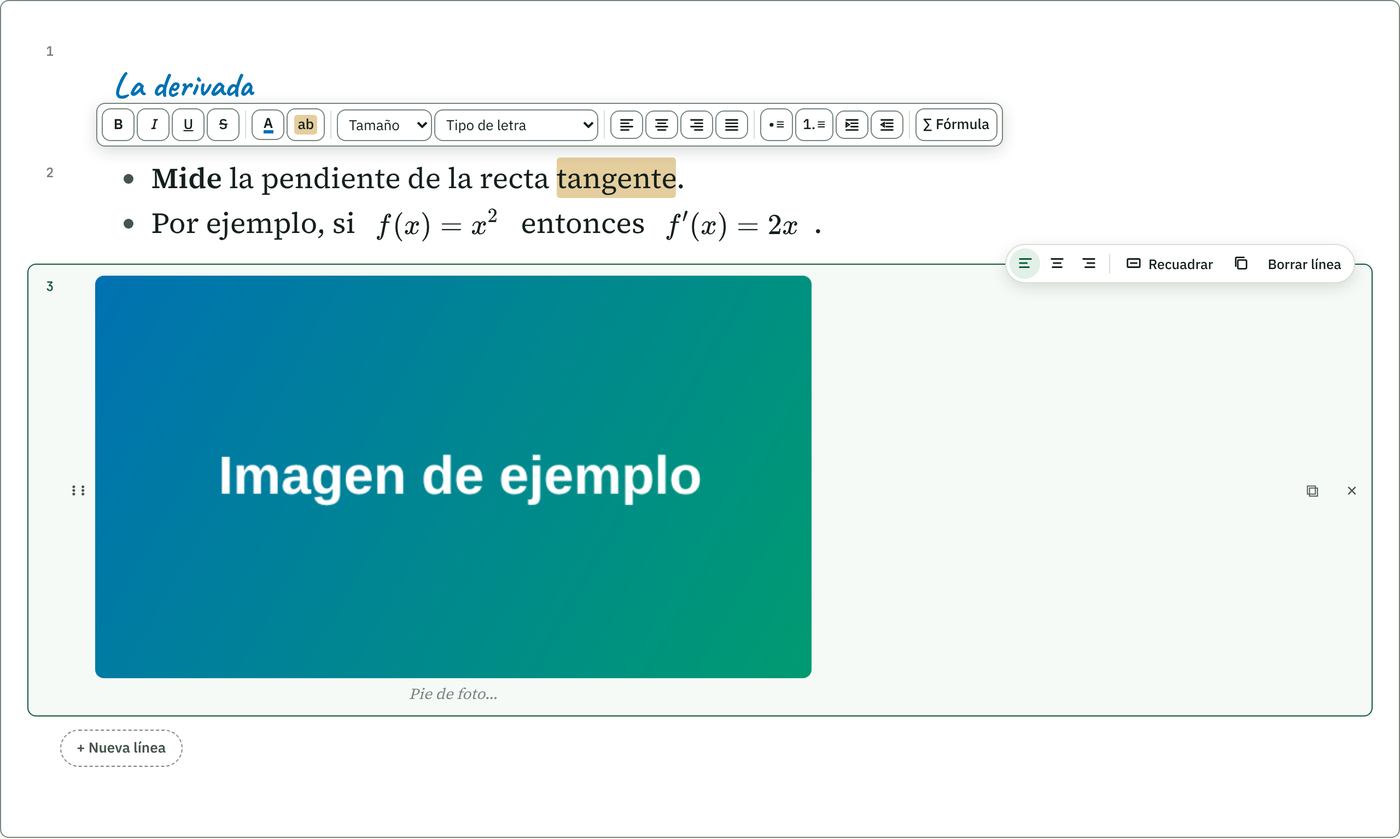
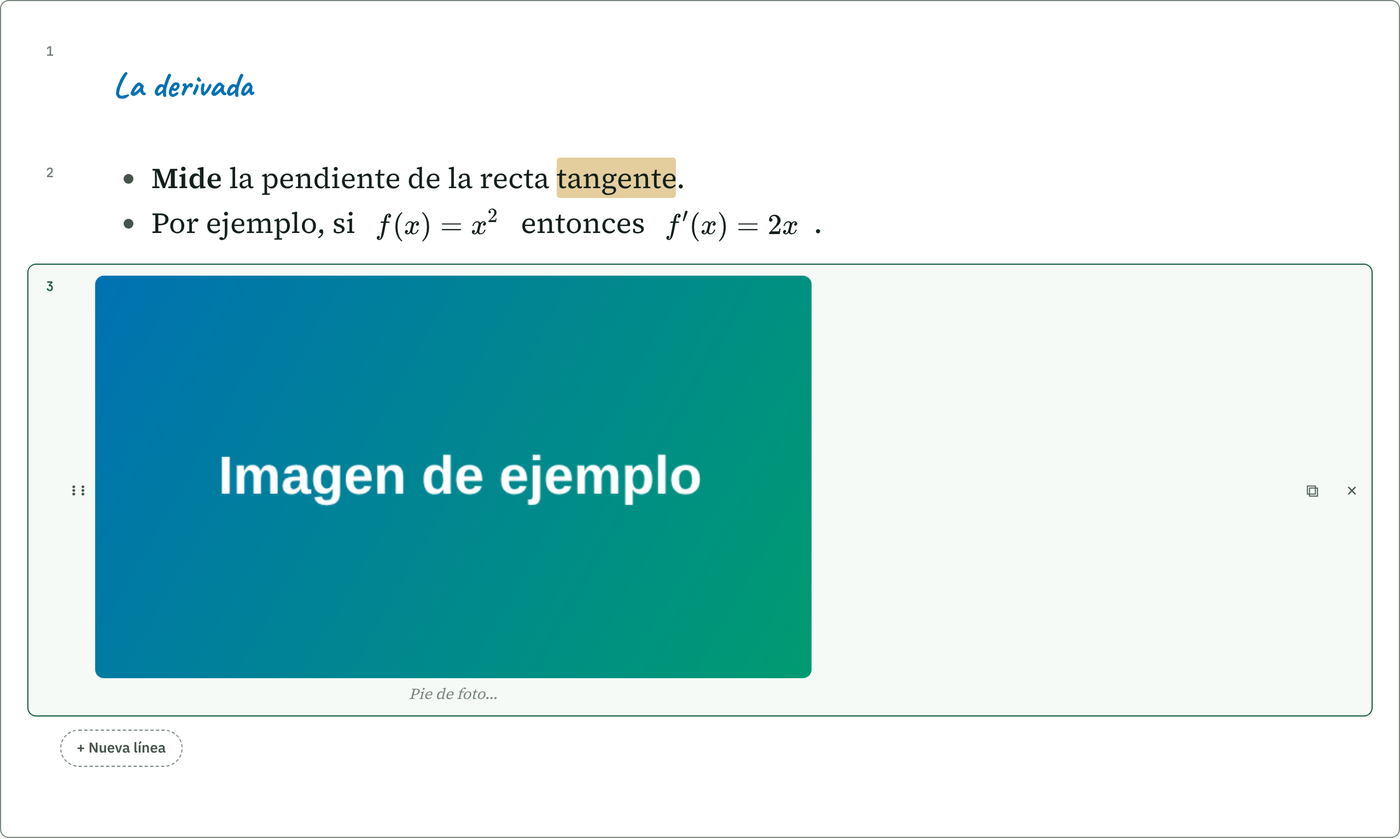
Barra lateral: secciones desplegables «Línea» y «Formato»
- La barrita flotante de la línea activa (alinear, fila/columna, recuadrar, duplicar,
  borrar) pasa a la sección «Línea» de la barra lateral: ya no tapa líneas de la hoja.
- «Línea» y «Formato» son desplegables (ui/rail-section): empiezan plegadas, se abren con
  un clic en el título sin quitar el cursor de la línea y se recuerda si están abiertas.
- Prueba de presentación más estable al insertar la imagen.

Changed region(s): [[0.0625, 0.1226, 0.7188, 0.1838], [0.7188, 0.2757, 0.9688, 0.337]]

diff --git a/pizarra.html b/pizarra.html
@@ -61,6 +61,19 @@
 
 <div class="app-row">
 <aside class="toolbar rail" id="toolbar" role="toolbar" aria-orientation="vertical" aria-label="Herramientas">
+  <div class="rgrp only-write lb-rail" id="lineBar" role="toolbar" aria-label="Línea activa" hidden>
+    <div class="lb-seg" role="group" aria-label="Alineación de la línea" id="alignSeg">
+      <button type="button" class="hb ico" data-align="left" aria-pressed="true" aria-label="Alinear a la izquierda" title="Alinear a la izquierda"><svg class="ic" width="15" height="15" viewBox="0 0 16 16" fill="none" stroke="currentColor" stroke-width="1.5" stroke-linecap="round" stroke-linejoin="round" aria-hidden="true"><path d="M2.5 4h11M2.5 8h7M2.5 12h9"/></svg></button>
+      <button type="button" class="hb ico" data-align="center" aria-pressed="false" aria-label="Centrar" title="Centrar"><svg class="ic" width="15" height="15" viewBox="0 0 16 16" fill="none" stroke="currentColor" stroke-width="1.5" stroke-linecap="round" stroke-linejoin="round" aria-hidden="true"><path d="M2.5 4h11M4.5 8h7M3.5 12h9"/></svg></button>
+      <button type="button" class="hb ico" data-align="right" aria-pressed="false" aria-label="Alinear a la derecha" title="Alinear a la derecha"><svg class="ic" width="15" height="15" viewBox="0 0 16 16" fill="none" stroke="currentColor" stroke-width="1.5" stroke-linecap="round" stroke-linejoin="round" aria-hidden="true"><path d="M2.5 4h11M6.5 8h7M4.5 12h9"/></svg></button>
+    </div>
+        <button type="button" class="hb lb-mat" data-cmd="addRowAfter" title="Añadir fila a la matriz o al sistema (Mayús+Intro)"><svg class="ic" width="14" height="14" viewBox="0 0 16 16" fill="none" stroke="currentColor" stroke-width="1.5" stroke-linecap="round" stroke-linejoin="round" aria-hidden="true"><path d="M8 3v10M3 8h10"/></svg><span>Fila</span></button>
+    <button type="button" class="hb lb-mat" data-cmd="addColumnAfter" title="Añadir columna a la matriz (Ctrl+Intro)"><svg class="ic" width="14" height="14" viewBox="0 0 16 16" fill="none" stroke="currentColor" stroke-width="1.5" stroke-linecap="round" stroke-linejoin="round" aria-hidden="true"><path d="M8 3v10M3 8h10"/></svg><span>Columna</span></button>
+    <button type="button" class="hb" id="boxBtn" title="Recuadrar la línea (resultado final)"><svg class="ic" width="15" height="15" viewBox="0 0 16 16" fill="none" stroke="currentColor" stroke-width="1.5" stroke-linecap="round" stroke-linejoin="round" aria-hidden="true"><rect x="2" y="4" width="12" height="8" rx="1"/><path d="M5 8h6"/></svg><span>Recuadrar</span></button>
+    <button type="button" class="hb" id="dupBtn" aria-label="Duplicar" title="Duplicar la línea o el paso activo (Ctrl+D)"><svg class="ic" width="15" height="15" viewBox="0 0 16 16" fill="none" stroke="currentColor" stroke-width="1.5" stroke-linecap="round" stroke-linejoin="round" aria-hidden="true"><rect x="5" y="5" width="8.5" height="8.5" rx="1.2"/><path d="M3 11V3.5c0-.5.4-1 1-1h7"/></svg><span>Duplicar</span></button>
+    <button type="button" class="hb" id="delBtn" title="Borrar la línea o el paso activo (Alt+Supr)"><svg class="ic" width="15" height="15" viewBox="0 0 16 16" fill="none" stroke="currentColor" stroke-width="1.5" stroke-linecap="round" stroke-linejoin="round" aria-hidden="true"><path d="M3 4.5h10M6.5 4.5V3h3v1.5M4.5 4.5l.7 9h5.6l.7-9"/></svg><span>Borrar línea</span></button>
+    <button type="button" class="hb" id="delDerivBtn" title="Borrar el desarrollo completo" hidden><svg class="ic" width="15" height="15" viewBox="0 0 16 16" fill="none" stroke="currentColor" stroke-width="1.5" stroke-linecap="round" stroke-linejoin="round" aria-hidden="true"><path d="M3 4.5h10M6.5 4.5V3h3v1.5M4.5 4.5l.7 9h5.6l.7-9"/></svg><span>Borrar desarrollo</span></button>
+  </div>
   <div class="rgrp only-write" aria-label="Calcular">
     <button type="button" class="rb" data-pop="opsPop" aria-haspopup="true" title="Operaciones paso a paso: matrices, vectores, ecuaciones, fracciones, polinomios, combinatoria, lógica, conjuntos, derivadas y gráficas"><svg class="ic" width="18" height="18" viewBox="0 0 16 16" fill="none" stroke="currentColor" stroke-width="1.5" stroke-linecap="round" stroke-linejoin="round" aria-hidden="true"><path d="M2.5 4h7M2.5 8h11M2.5 12h5"/><path d="M11 10.5l1.5 1.5 2.5-3"/></svg><span>Operaciones</span></button>
     <button type="button" class="rb rb-pri" id="calcBtn" title="Calcular la línea activa (Ctrl+=)"><span class="ic gl" aria-hidden="true">=</span><span>Calcular</span></button>
@@ -132,20 +145,6 @@
     <canvas id="ink" role="img" aria-label="Capa de dibujo a mano alzada de la página"></canvas>
     <div id="blocks"></div>
     <button type="button" class="add-line" id="addLineEnd" title="Añadir una línea al final de la página">+ Nueva línea</button>
-  </div>
-  <div class="line-bar" id="lineBar" role="toolbar" aria-label="Línea activa" hidden>
-    <div class="lb-seg" role="group" aria-label="Alineación de la línea" id="alignSeg">
-      <button type="button" class="hb ico" data-align="left" aria-pressed="true" aria-label="Alinear a la izquierda" title="Alinear a la izquierda"><svg class="ic" width="15" height="15" viewBox="0 0 16 16" fill="none" stroke="currentColor" stroke-width="1.5" stroke-linecap="round" stroke-linejoin="round" aria-hidden="true"><path d="M2.5 4h11M2.5 8h7M2.5 12h9"/></svg></button>
-      <button type="button" class="hb ico" data-align="center" aria-pressed="false" aria-label="Centrar" title="Centrar"><svg class="ic" width="15" height="15" viewBox="0 0 16 16" fill="none" stroke="currentColor" stroke-width="1.5" stroke-linecap="round" stroke-linejoin="round" aria-hidden="true"><path d="M2.5 4h11M4.5 8h7M3.5 12h9"/></svg></button>
-      <button type="button" class="hb ico" data-align="right" aria-pressed="false" aria-label="Alinear a la derecha" title="Alinear a la derecha"><svg class="ic" width="15" height="15" viewBox="0 0 16 16" fill="none" stroke="currentColor" stroke-width="1.5" stroke-linecap="round" stroke-linejoin="round" aria-hidden="true"><path d="M2.5 4h11M6.5 8h7M4.5 12h9"/></svg></button>
-    </div>
-    <span class="lb-sep" aria-hidden="true"></span>
-    <button type="button" class="hb lb-mat" data-cmd="addRowAfter" title="Añadir fila a la matriz o al sistema (Mayús+Intro)"><svg class="ic" width="14" height="14" viewBox="0 0 16 16" fill="none" stroke="currentColor" stroke-width="1.5" stroke-linecap="round" stroke-linejoin="round" aria-hidden="true"><path d="M8 3v10M3 8h10"/></svg>Fila</button>
-    <button type="button" class="hb lb-mat" data-cmd="addColumnAfter" title="Añadir columna a la matriz (Ctrl+Intro)"><svg class="ic" width="14" height="14" viewBox="0 0 16 16" fill="none" stroke="currentColor" stroke-width="1.5" stroke-linecap="round" stroke-linejoin="round" aria-hidden="true"><path d="M8 3v10M3 8h10"/></svg>Columna</button>
-    <button type="button" class="hb" id="boxBtn" title="Recuadrar la línea (resultado final)"><svg class="ic" width="15" height="15" viewBox="0 0 16 16" fill="none" stroke="currentColor" stroke-width="1.5" stroke-linecap="round" stroke-linejoin="round" aria-hidden="true"><rect x="2" y="4" width="12" height="8" rx="1"/><path d="M5 8h6"/></svg>Recuadrar</button>
-    <button type="button" class="hb ico" id="dupBtn" aria-label="Duplicar" title="Duplicar la línea o el paso activo (Ctrl+D)"><svg class="ic" width="15" height="15" viewBox="0 0 16 16" fill="none" stroke="currentColor" stroke-width="1.5" stroke-linecap="round" stroke-linejoin="round" aria-hidden="true"><rect x="5" y="5" width="8.5" height="8.5" rx="1.2"/><path d="M3 11V3.5c0-.5.4-1 1-1h7"/></svg></button>
-    <button type="button" class="hb" id="delBtn" title="Borrar la línea o el paso activo (Alt+Supr)">Borrar línea</button>
-    <button type="button" class="hb" id="delDerivBtn" title="Borrar el desarrollo completo" hidden>Borrar desarrollo</button>
   </div>
 </main>
 </div>
@@ -555,6 +554,7 @@
 <script src="src/js/ui/templates.js"></script>
 <script src="src/js/ui/popovers.js"></script>
 <script src="src/js/ui/toolbar.js"></script>
+<script src="src/js/ui/rail-section.js"></script>
 <script src="src/js/ui/line-bar.js"></script>
 <script src="src/js/ui/calc.js"></script>
 <script src="src/js/ui/ops-menu.js"></script>

diff --git a/src/css/chrome.css b/src/css/chrome.css
@@ -51,20 +51,36 @@
 .rail-width input{width:64px}
 body[data-mode="draw"] .rail .rgrp.only-draw:first-of-type{border-top:0}
 
-/* ---- Barrita flotante de la línea activa ---- */
-.line-bar{position:absolute;z-index:30;display:flex;align-items:center;gap:2px;padding:3px;background:var(--surface-raised);border:var(--border-width-thin) solid var(--border);border-radius:var(--radius-pill);box-shadow:0 4px 14px rgba(0,0,0,.12)}
-.line-bar .hb{height:28px;padding:0 9px;border-radius:var(--radius-pill);font-size:12.5px}
-.line-bar .hb.ico{width:28px;padding:0}
-.line-bar .lb-seg{display:inline-flex;gap:1px}
-.line-bar .lb-sep{width:1px;height:18px;background:var(--border);margin:0 3px}
+/* ---- Secciones desplegables de la barra lateral (ui/rail-section): «Línea» y «Formato» ---- */
+.rsec-h{display:flex;align-items:center;gap:4px;width:100%;padding:4px 4px;border:0;border-radius:var(--radius-md);background:transparent;color:var(--ink-muted);font:600 10.5px var(--font-sans);text-transform:uppercase;letter-spacing:.04em;cursor:pointer;text-align:left}
+.rsec-h:hover{background:var(--surface-sunken);color:var(--ink)}
+.rsec-h:focus-visible{outline:var(--border-width-medium) solid var(--focus-ring);outline-offset:1px}
+.rsec-chev{flex:none;transition:transform var(--duration-fast) var(--ease-standard)}
+.rsec-h[aria-expanded="true"] .rsec-chev{transform:rotate(90deg)}
+.rsec-b[hidden]{display:none!important}
+.rgrp.rsec{gap:2px}
+.rgrp[hidden]{display:none!important}
+/* sin línea de separación encima del primer grupo visible */
+.rail>#lineBar[hidden]+.tf-bar[hidden]+.rgrp,.rail>#lineBar[hidden]+.rgrp:not(.tf-bar){border-top:0;margin-top:0;padding-top:4px}
+
+/* ---- Sección «Línea»: alinear, fila/columna, recuadrar, duplicar, borrar ---- */
+.lb-rail .rsec-b{display:flex;flex-direction:column;align-items:stretch;gap:2px;width:72px}
+.lb-rail .lb-seg{display:grid;grid-template-columns:repeat(3,1fr);gap:2px}
+.lb-rail .hb{width:100%;height:auto;min-height:28px;padding:4px 3px;gap:4px;justify-content:flex-start;font-size:11.5px;line-height:1.15;white-space:normal;text-align:left}
+.lb-rail .lb-seg .hb{justify-content:center;padding:0}
+.lb-rail .hb[hidden]{display:none}
 #boxBtn[aria-pressed="true"]{background:var(--brand-soft);color:var(--brand)}
-body.presenting .line-bar,body.chrome-off .line-bar,body[data-mode="draw"] .line-bar{display:none!important}
+body.presenting #lineBar,body.chrome-off #lineBar{display:none!important}
 
 /* ---- Pantallas estrechas: barra lateral solo con iconos ---- */
 @media (max-width:640px){
   .toolbar.rail{width:56px;padding:6px 4px}
   .rb{width:46px;font-size:0;gap:0;padding:8px 0}
   .rail-colors{grid-template-columns:26px}
+  .lb-rail .rsec-b{width:46px}
+  .lb-rail .lb-seg{grid-template-columns:1fr}
+  .lb-rail .hb{justify-content:center;font-size:0}
+  .rsec-h span{display:none}
   .top{gap:4px;padding:8px}
   .top .brand b,.top .hb-t{display:none}
   .mode-seg button{padding:0 9px}

diff --git a/src/js/ui/line-bar.js b/src/js/ui/line-bar.js
@@ -1,11 +1,12 @@
-/* Barrita flotante de la línea activa: alinear, recuadrar, añadir fila/columna (si hay matriz o sistema),
-   duplicar y borrar. Aparece sobre el borde superior derecho de la línea activa y la sigue al desplazarse. */
-MatIA.define('ui/line-bar', ['core/dom'], (dom) => {
+/* Sección «Línea» de la barra lateral (desplegable): alinear, recuadrar, añadir fila/columna (si hay
+   matriz o sistema), duplicar y borrar la línea activa. Antes flotaba sobre la hoja y tapaba otras líneas. */
+MatIA.define('ui/line-bar', ['core/dom', 'ui/rail-section'], (dom, section) => {
   'use strict';
   const { $ } = dom;
   const { body } = dom;
-  const bar = $('#lineBar'), wrap = $('#wrap'), blocksEl = $('#blocks');
+  const bar = $('#lineBar'), blocksEl = $('#blocks');
   const MAT = /\\begin\{(?:[pbvBV]?matrix|cases|array|aligned|smallmatrix)/;
+  section.make(bar, 'linea', 'Línea', false);
   let raf = 0;
 
   function place() {
@@ -16,21 +17,11 @@ MatIA.define('ui/line-bar', ['core/dom'], (dom) => {
     const hasMat = !!(mf && MAT.test(mf.value || ''));
     bar.querySelectorAll('.lb-mat').forEach((b) => { b.hidden = !hasMat; });
     bar.hidden = false;
-    const wr = wrap.getBoundingClientRect(), r = el.getBoundingClientRect();
-    const h = bar.offsetHeight, w = bar.offsetWidth;
-    // Las líneas de texto tienen su propia barra de formato arriba: esta va al borde inferior
-    const below = !mf && !!el.querySelector('.blk-text');
-    const y = (below ? r.bottom : r.top) - wr.top + wrap.scrollTop - h / 2;
-    const x = Math.max(8, r.right - wr.left + wrap.scrollLeft - w - 16);
-    bar.style.top = Math.max(wrap.scrollTop + 2, y) + 'px';
-    bar.style.left = x + 'px';
   }
   const schedule = () => { if (!raf) raf = requestAnimationFrame(place); };
 
   new MutationObserver(schedule).observe(blocksEl, { attributes: true, attributeFilter: ['class'], subtree: true, childList: true });
   new MutationObserver(schedule).observe(body, { attributes: true, attributeFilter: ['data-mode', 'class'] });
   blocksEl.addEventListener('input', schedule, true);
-  window.addEventListener('resize', schedule);
-  if (window.ResizeObserver) new ResizeObserver(schedule).observe(blocksEl);
   return { place: schedule };
 });

diff --git a/src/js/ui/rail-section.js b/src/js/ui/rail-section.js
@@ -1,0 +1,36 @@
+/* Secciones desplegables de la barra lateral («Línea», «Formato»…): una cabecera con ▸/▾ que abre o
+   cierra el contenido del grupo. Así las ayudas de la línea activa viven en el lateral (no tapan la hoja)
+   y solo ocupan sitio si se necesitan. Se recuerda en este navegador si cada sección está abierta. */
+MatIA.define('ui/rail-section', [], () => {
+  'use strict';
+  const KEY = 'matia-rail-abiertas';
+  const load = () => { try { return JSON.parse(localStorage.getItem(KEY)) || {}; } catch (e) { return {}; } };
+  const store = (id, open) => { try { const o = load(); o[id] = open; localStorage.setItem(KEY, JSON.stringify(o)); } catch (e) { /* sin almacenamiento */ } };
+
+  /** Convierte el grupo en sección desplegable: mete su contenido en un cuerpo y le pone cabecera. */
+  function make(group, id, label, openByDefault = false) {
+    const saved = load();
+    const head = document.createElement('button');
+    head.type = 'button';
+    head.className = 'rsec-h';
+    head.innerHTML = '<svg class="rsec-chev" viewBox="0 0 16 16" width="12" height="12" aria-hidden="true" fill="none" stroke="currentColor" stroke-width="1.8" stroke-linecap="round" stroke-linejoin="round"><path d="M6 4l4 4-4 4"/></svg><span></span>';
+    head.querySelector('span').textContent = label;
+    const body = document.createElement('div');
+    body.className = 'rsec-b';
+    body.id = 'rsec-' + id;
+    while (group.firstChild) body.appendChild(group.firstChild);
+    group.classList.add('rsec');
+    group.append(head, body);
+    head.setAttribute('aria-controls', body.id);
+    const set = (open) => {
+      body.hidden = !open;
+      head.setAttribute('aria-expanded', String(open));
+      head.title = (open ? 'Ocultar ' : 'Mostrar ') + label.toLowerCase();
+    };
+    set(id in saved ? !!saved[id] : openByDefault);
+    head.addEventListener('mousedown', (e) => e.preventDefault()); // el cursor sigue en la línea
+    head.addEventListener('click', () => { const open = body.hidden; set(open); store(id, open); });
+    return { head, body, set, isOpen: () => !body.hidden };
+  }
+  return { make };
+});

diff --git a/src/js/ui/text-format.js b/src/js/ui/text-format.js
@@ -1,6 +1,6 @@
 /* Formato del bloque «Texto», en la barra lateral (antes flotaba sobre la línea y tapaba la de arriba): negrita, cursiva, color, tamaño, tipo de letra, alineación, listas, fórmula en línea.
    Colores, tamaños y fuentes se guardan como clases tf-* (nada de style ni <font>), definidas en css/text.css. */
-MatIA.define('ui/text-format', ['ui/state', 'blocks/text'], (st, T) => {
+MatIA.define('ui/text-format', ['ui/state', 'blocks/text', 'ui/rail-section'], (st, T, section) => {
   'use strict';
   const R = (n) => MatIA.require(n);
   const sheet = document.getElementById('sheet');
@@ -19,12 +19,8 @@ MatIA.define('ui/text-format', ['ui/state', 'blocks/text'], (st, T) => {
   bar.setAttribute('role', 'toolbar');
   bar.setAttribute('aria-label', 'Formato de texto');
   const rail = document.getElementById('toolbar');
-  if (rail) rail.insertBefore(bar, rail.firstChild); else sheet.appendChild(bar);
-  const head = document.createElement('span');
-  head.className = 'tf-head';
-  head.textContent = 'Formato';
-  head.setAttribute('aria-hidden', 'true');
-  bar.appendChild(head);
+  const lineSec = document.getElementById('lineBar');
+  if (rail) rail.insertBefore(bar, lineSec && lineSec.parentNode === rail ? lineSec.nextSibling : rail.firstChild); else sheet.appendChild(bar);
 
   let host = null;       // .blk-text activo
   let saved = null;      // último rango dentro del texto
@@ -227,12 +223,14 @@ MatIA.define('ui/text-format', ['ui/state', 'blocks/text'], (st, T) => {
   sep();
   button('formula', '∑ Fórmula', 'Insertar una fórmula en el texto (o escribe $). Para volver al texto: Intro, Esc o $', formula);
 
+  // sección desplegable (cerrada de entrada: se abre si se necesita y se recuerda)
+  section.make(bar, 'formato', 'Formato', false);
+
   /* ---------- visibilidad ---------- */
   function place() {
     if (!host || !host.isConnected) return hide();
     if (bar.hidden) {
       bar.hidden = false;
-      if (rail) rail.scrollTop = 0; // el grupo está arriba del todo
     }
   }
   function hide() {

diff --git a/src/tests/presentation.js b/src/tests/presentation.js
@@ -57,7 +57,8 @@ const MOCK = () => {
   // imagen: botón «Imagen» → ventana MatIA (no hay carpeta) → se guarda en imagenes/
   const png = await pg.evaluate(async () => { const c = document.createElement('canvas'); c.width = 640; c.height = 360; const x = c.getContext('2d'); const g = x.createLinearGradient(0, 0, 640, 360); g.addColorStop(0, '#0072b2'); g.addColorStop(1, '#009b71'); x.fillStyle = g; x.fillRect(0, 0, 640, 360); x.fillStyle = '#fff'; x.font = 'bold 48px sans-serif'; x.fillText('Imagen de ejemplo', 110, 195); const b = await new Promise((r) => c.toBlob(r, 'image/png')); return Array.from(new Uint8Array(await b.arrayBuffer())); });
   const tmpPng = path.join(require('os').tmpdir(), 'matia-ejemplo.png'); fs.writeFileSync(tmpPng, Buffer.from(png));
-  await pg.locator('#blocks > .blk').nth(1).locator('.blk-text').click();
+  await pg.locator('#blocks > .blk').nth(1).locator('.blk-text').click({ position: { x: 20, y: 10 } }); // en el texto, no en una fórmula
+  await pg.waitForFunction(() => MatIA.require('model/board').page().blocks.findIndex((b) => b.id === MatIA.require('ui/state').activeId) === 1);
   const [fc] = await Promise.all([pg.waitForEvent('filechooser'), pg.click('#imgBtn')]);
   await fc.setFiles(tmpPng);
   await pg.waitForTimeout(300);
@@ -77,6 +78,8 @@ const MOCK = () => {
   await pg.locator('#sheet').screenshot({ path: path.join(ROOT, 'src/docs/img/presentacion-diapositiva.png') });
   await pg.locator('#blocks > .blk').nth(0).locator('.blk-text').click();
   await pg.waitForTimeout(400);
+  for (const h of ['#lineBar .rsec-h', '.tf-bar .rsec-h']) if ((await pg.getAttribute(h, 'aria-expanded')) !== 'true') await pg.click(h); // secciones del lateral abiertas para la captura
+  await pg.waitForTimeout(250);
   await pg.screenshot({ path: path.join(ROOT, 'src/docs/img/presentacion-barra-texto.png'), clip: { x: 0, y: 0, width: 1400, height: 520 } });
 
   // PDF: botón → ventana MatIA → impresión con una hoja por diapositiva

diff --git a/src/css/text.css b/src/css/text.css
@@ -28,16 +28,14 @@
 .math-inline:focus-within{outline:2px solid var(--accent,var(--selection-strong));outline-offset:1px}
 
 /* grupo «Formato» de la barra lateral (solo con una línea de texto activa) */
-.tf-bar{display:grid;grid-template-columns:repeat(2,34px);gap:3px;justify-content:center;width:100%;font-family:var(--font-sans)}
-.tf-bar[hidden]{display:none}
-.tf-bar[hidden]+.rgrp{border-top:0;margin-top:0;padding-top:4px}
-.tf-head{grid-column:1/-1;justify-self:start;margin:0 0 2px 4px;font:600 10.5px var(--font-sans);color:var(--ink-muted);text-transform:uppercase;letter-spacing:.04em}
+.tf-bar{font-family:var(--font-sans)}
+.tf-bar .rsec-b{display:grid;grid-template-columns:repeat(2,34px);gap:3px;justify-content:center;width:100%}
 .tf-bar .tf-btn{min-width:0;width:34px;height:30px;padding:0;justify-content:center}
 .tf-bar .tf-pop-wrap .tf-btn{width:34px}
 .tf-bar [aria-label^="Insertar una fórmula"]{grid-column:1/-1;width:100%}
 .tf-bar .tf-select{grid-column:1/-1;width:100%;max-width:none;padding:3px 2px;font-size:12px}
 .tf-bar .tf-sep{grid-column:1/-1;width:auto;height:1px;margin:2px 4px;align-self:auto}
-@media (max-width:640px){.tf-bar{grid-template-columns:34px}.tf-head{display:none}}
+@media (max-width:640px){.tf-bar .rsec-b{grid-template-columns:34px}}
 .tf-btn{min-width:30px;padding-left:6px;padding-right:6px;white-space:nowrap}
 .tf-btn[aria-pressed="true"]{background:var(--selection);color:var(--ink)}
 .tf-sep{width:1px;align-self:stretch;margin:2px 3px;background:var(--border)}

diff --git a/src/tests/text.js b/src/tests/text.js
@@ -55,6 +55,10 @@ function pageFile(name) {
   await t0.click();
   ok(await page.locator('.tf-bar').isVisible(), 'la barra aparece al enfocar el texto');
   ok(await page.evaluate(() => document.querySelector('.tf-bar').parentElement.id === 'toolbar'), 'el formato está en la barra lateral (no tapa líneas de la hoja)');
+  ok((await page.getAttribute('.tf-bar .rsec-h', 'aria-expanded')) === 'false' && !(await page.isVisible('.tf-bar button[title="Negrita (Ctrl+B)"]')), '«Formato» empieza plegado');
+  await page.click('.tf-bar .rsec-h');
+  ok(await page.isVisible('.tf-bar button[title="Negrita (Ctrl+B)"]') && await page.evaluate(() => !!document.activeElement.closest('.blk-text')), 'al desplegarlo se ven los botones y el cursor sigue en el texto');
+  ok(await page.isVisible('#lineBar .rsec-h'), 'la sección «Línea» también está en el lateral');
   await page.keyboard.press('Control+A');
   await page.keyboard.press('Control+B');
   await page.locator('.tf-bar button[title="Color del texto"]').click();

diff --git a/src/tests/graph3d.js b/src/tests/graph3d.js
@@ -46,6 +46,7 @@ const URL_ = 'file://' + path.resolve(__dirname, '..', '..', 'pizarra.html');
   ok('3D: al tocar el dibujo, su línea queda activa', await pg.evaluate(() => !!document.querySelector('.blk.is-active .g3d')));
 
   // centrar el bloque
+  if ((await pg.getAttribute('#lineBar .rsec-h', 'aria-expanded')) !== 'true') await pg.click('#lineBar .rsec-h'); // sección «Línea» plegada
   await pg.click('#alignSeg [data-align=center]'); await pg.waitForTimeout(250);
   const m = await pg.evaluate(() => { const g = document.querySelector('.g3d').getBoundingClientRect(), s = document.querySelector('.g3d').closest('.blk-body').getBoundingClientRect(); return [g.left - s.left, s.right - g.right]; });
   ok('3D: «Centro» centra el dibujo', (await blk(pg, 1)).align === 'center' && m[0] > 20 && Math.abs(m[0] - m[1]) < 3, m.map(Math.round).join(' / '));

diff --git a/src/js/ui/toolbar.js b/src/js/ui/toolbar.js
@@ -22,8 +22,8 @@ MatIA.define('ui/toolbar', ['core/dom', 'model/board', 'model/schema', 'ui/state
     if (b.dataset.tool) { S.board.tool = b.dataset.tool; R('ui/view').applySettings(); S.save(); }
     for (const k of ['shape', 'dash', 'fill']) if (b.dataset[k]) { S.board[k] = b.dataset[k]; R('ui/view').applySettings(); S.save(); }
   };
-  // Barra lateral y barrita flotante de la línea activa
-  for (const bar of [$('#toolbar'), $('#lineBar')]) {
+  // Barra lateral (incluye la sección «Línea» de la línea activa)
+  for (const bar of [$('#toolbar')]) { // #lineBar está dentro de la barra lateral
     bar.addEventListener('mousedown', (e) => { if (e.target.closest('button')) e.preventDefault(); });
     bar.addEventListener('click', onBar);
   }

diff --git a/src/js/blocks/editor.js b/src/js/blocks/editor.js
@@ -263,7 +263,7 @@ MatIA.define('blocks/editor', ['core/dom', 'model/board', 'model/schema', 'ui/st
     if (b) {
       $$('#alignSeg button').forEach((x) => x.setAttribute('aria-pressed', String(x.dataset.align === b.align)));
       $('#boxBtn').setAttribute('aria-pressed', String(!!b.boxed));
-      $('#delBtn').textContent = b.type === 'deriv' ? 'Borrar paso' : 'Borrar línea';
+      $('#delBtn span').textContent = b.type === 'deriv' ? 'Borrar paso' : 'Borrar línea';
       $('#delDerivBtn').hidden = b.type !== 'deriv';
     }
   }

diff --git a/src/docs/ESTILOS.md b/src/docs/ESTILOS.md
@@ -147,7 +147,7 @@ Animaciones: `mi-rise` (98), `mi-pop` (99). Dentro de la pizarra se definen tamb
 | Base, reset y `kbd` | 103-109 | `box-sizing`, `[hidden]`, `body` en flex |
 | Cabecera (`.top`, marca, Pío, páginas) | 110-126 | `.top .mi-field` en 124 |
 | Barra de herramientas (`.toolbar`, `.grp`, `.tb-btn`, `.sw`) | 127-142 | `body[data-mode]` oculta `.only-draw` / `.only-write` (142) |
-| Cabecera y barra lateral (diseño «C»): `.hb`, `.mode-seg`, `.app-row`, `.toolbar.rail`, `.rgrp`, `.rb`, `.rb-pri`, `.rail-colors`, `.line-bar` | `css/chrome.css` | Se carga tras `layout.css` y sobrescribe `.top`/`.toolbar`. La barrita `.line-bar` la coloca `js/ui/line-bar.js` sobre la línea activa; las ventanas abiertas desde la barra lateral salen a su derecha (`ui/popovers`). |
+| Cabecera y barra lateral (diseño «C»): `.hb`, `.mode-seg`, `.app-row`, `.toolbar.rail`, `.rgrp`, `.rb`, `.rb-pri`, `.rail-colors`, `.rsec-h`/`.rsec-b`, `.lb-rail`, `.so-*` | `css/chrome.css` | Se carga tras `layout.css` y sobrescribe `.top`/`.toolbar`. Las ayudas de la línea activa son secciones desplegables del lateral (`js/ui/rail-section.js`): «Línea» (`#lineBar`, `js/ui/line-bar.js`) y «Formato» (`.tf-bar`, `js/ui/text-format.js`); `.so-*` son las opciones de figura del modo Dibujar; las ventanas abiertas desde la barra lateral salen a su derecha (`ui/popovers`). |
 | Ventana «Migraciones»: `.mg-body`, `.mg-grid`, `.mg-card`, `.mg-step`, `.mg-opts`, `.mg-report`, `.sr-only` | `css/migrations.css` | La crea `js/ui/migrations.js`; reutiliza `.mi-check` y `.mi-btn`. |
 | Historial → exportar/importar: `.hist-sel`, `.hist-tools`, `.hist-item.imp`, `.hist-imp*` (revisión con etiquetas Nueva / Ya está / Nombre repetido) | `css/components/dialogs.css` | Lo maneja `js/ui/history-transfer.js`. |
 | Hoja y páginas (`.wrap`, `.sheet.paper`, `.page-end`, `.paper-sel`) | 143-151 | `#viewPop` y `#presBtn` en 150-151 |
